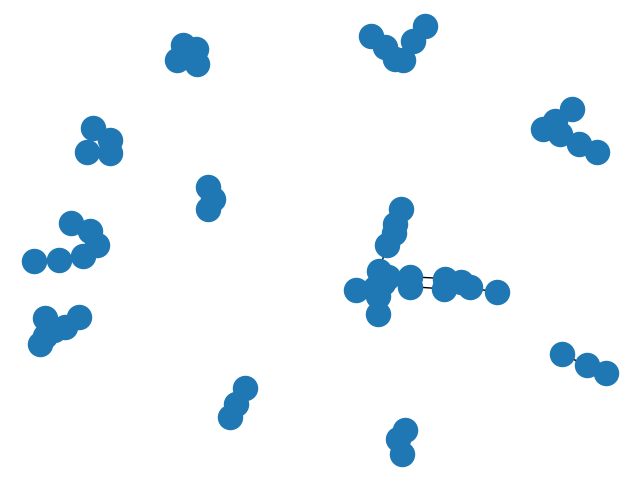
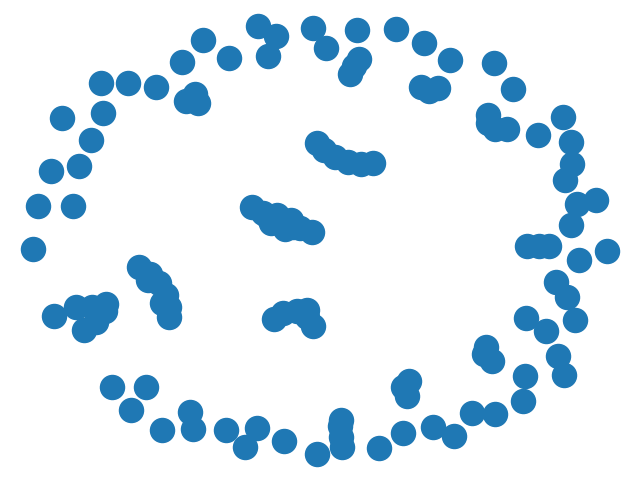
add test.png

diff --git a/mknodes.py b/mknodes.py
@@ -8,11 +8,24 @@ a = "nodes.txt"
 ar = open(a)
 
 arr = [ i.split() for i in ar.read().split('\n') if i != '' ]
+pos = {}
+ilst = []
 
 for i in arr:
-    G.add_node(i[0])
-    G.add_node(i[1])
     G.add_edge(i[0], i[1])
+    ilst.append(i[0])
+    ilst.append(i[1])
+
+ilsta = list(set(ilst))
+
+lisu =  sorted(ilsta, key=lambda x:int(x.split('.')[1]))
+print(lisu)
+
+for i in range(len(lisu)):
+    pos[lisu[i]] = (i, i)
+    G.add_node(i)
+
+
 
 nx.draw(G)
 plt.savefig("test.png")
